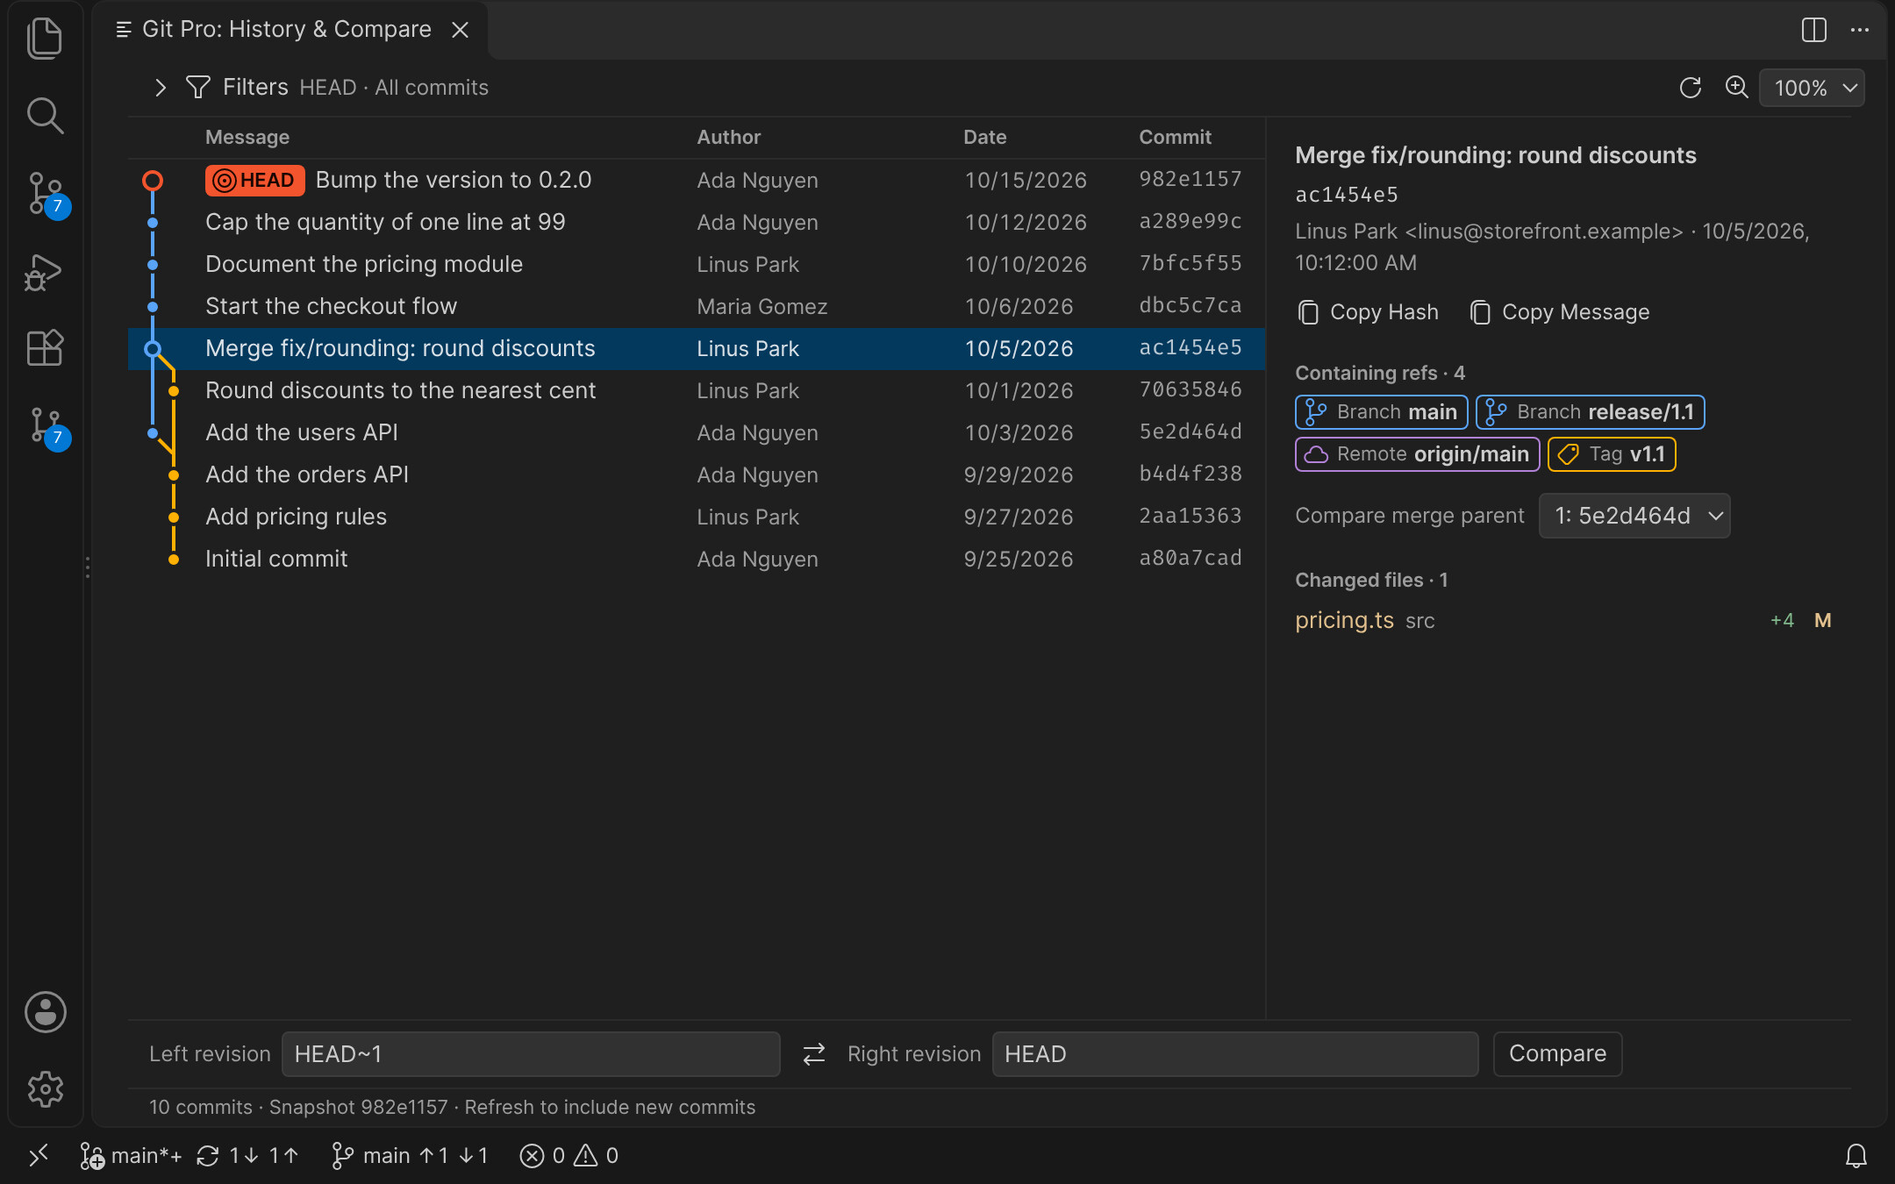
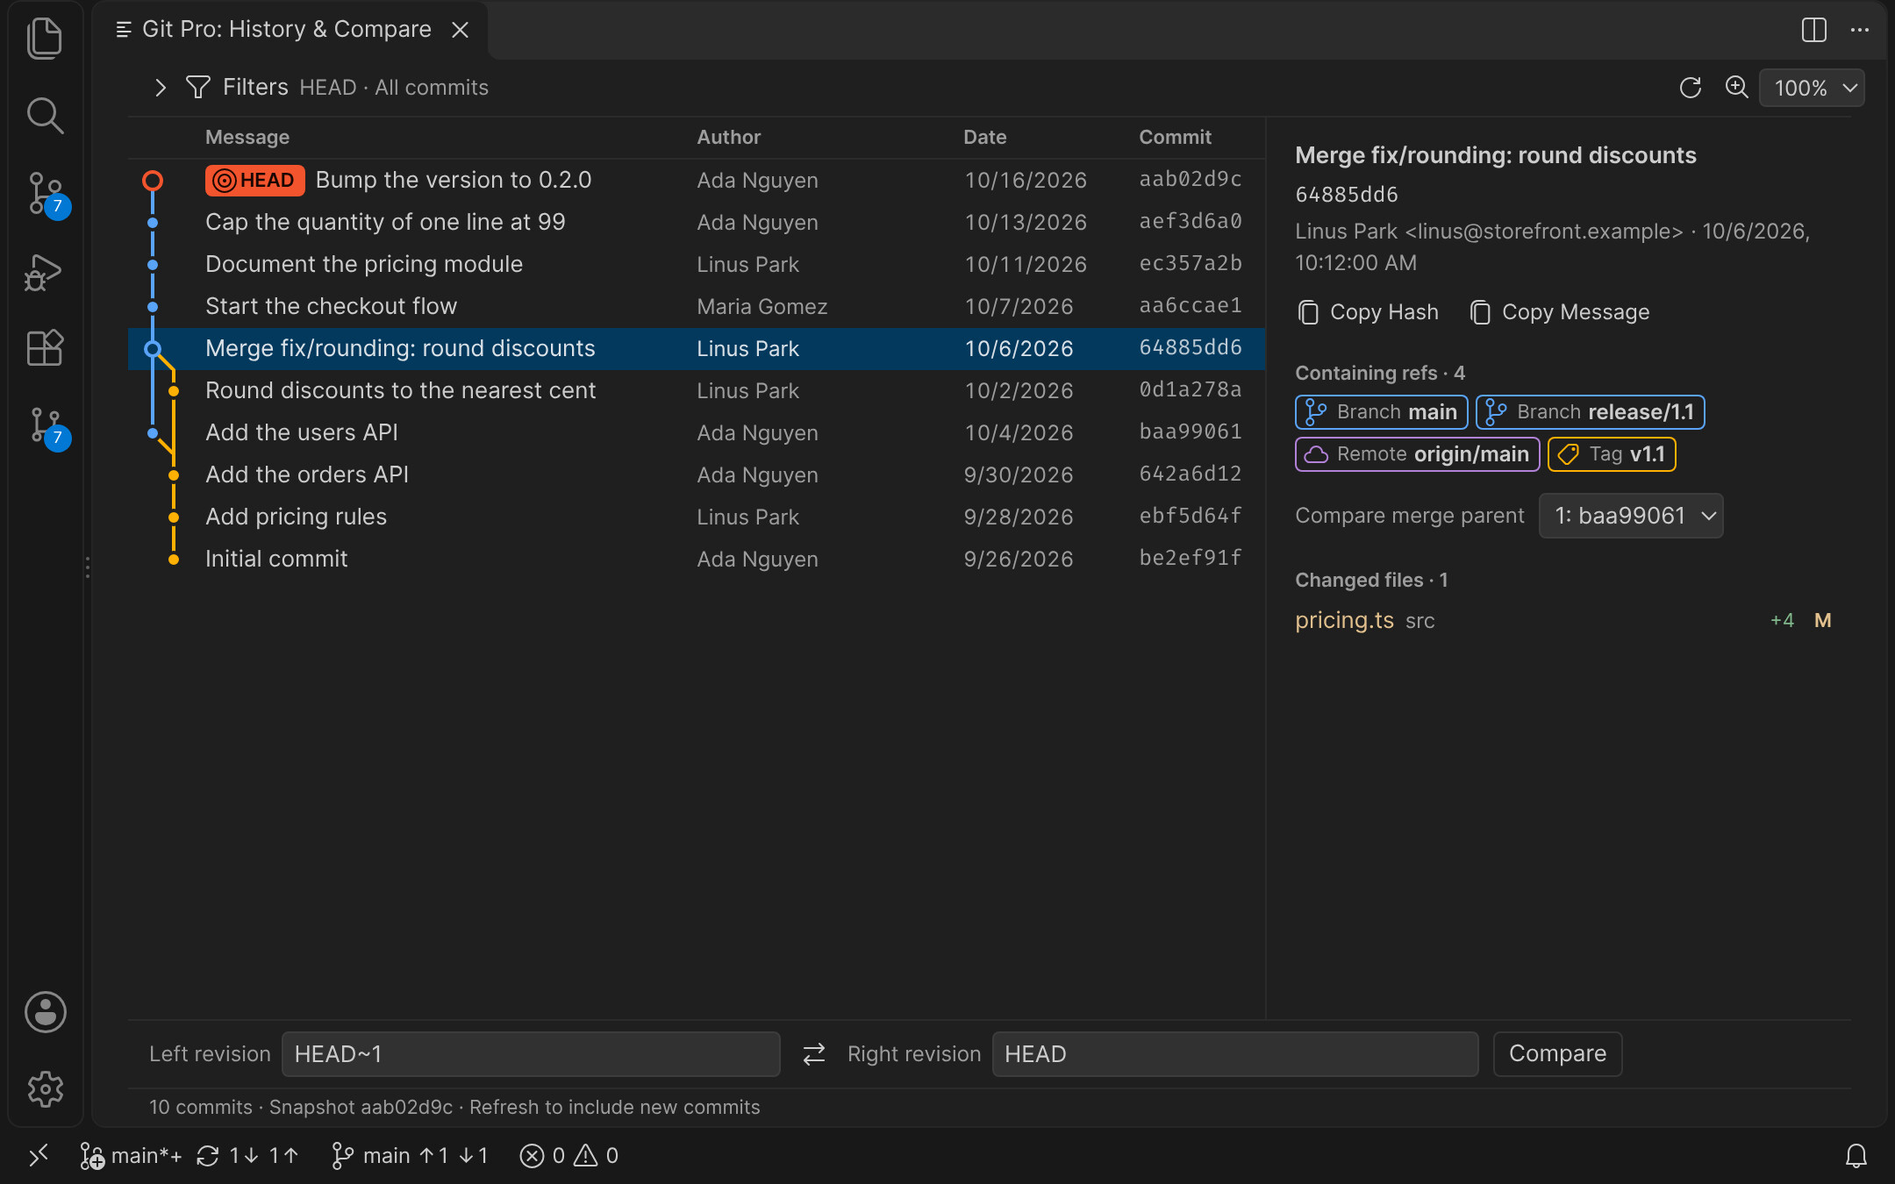
Keep History's rows cheap to scroll and redraw them when the panel is resized
History's commit list is virtual: a few rows are recycled as the list scrolls.
This tightens that, without changing what the list shows.

- The list redraws when the height of its viewport changes (a ResizeObserver),
  not only when the window is resized, so a panel that is made taller or shorter
  no longer keeps the rows of the old size.
- A recycled row's subject and hash update the text node they already have
  instead of replacing it, so a hostile or empty label is still plain text.
- When the window moves almost past the rows it had, the few rows that overlap
  keep their own nodes and are moved, and the rest are rotated: a bounded number
  of structural moves in both directions, and no new elements.
- The author and date columns keep one width (the date is cut with an ellipsis
  rather than pushing the columns), so the rows line up with the header.
- The :has() selectors of the busy bar, the HEAD node and the focus ring are
  narrowed with child combinators, which makes them cheaper to match.

Three unit tests cover the observer, the text nodes and the bounded moves. The
History screenshot, and the sizes of it for the landing page, are taken again.

diff --git a/test/unit/history-script.test.ts b/test/unit/history-script.test.ts
@@ -335,3 +335,40 @@ test('History details render containing refs when they arrive and ignore lookups
   receive({data:{type:'refs',session:'s',oid:commits[0]!.oid,refs:['refs/heads/main']}});assert.match(section().children[1]!.textContent,/unavailable/,'a late lookup for the previous commit does not overwrite');
   receive({data:{type:'details',session:'s',details:{commit:commits[0],message:'Commit 0',files:[],stats:[],refs:['refs/heads/main']},parentIndex:0}});assert.equal(section().children[0]!.textContent,'Containing refs · 1','stored details carry the result');
 });
+
+test('History observes viewport height changes without window resize and preserves current row actions',()=>{
+  const ids=['viewport','rows','spacer','details','status','filters','compare','more','pagination','filter-disclosure','filter-summary','snapshot','zoom','workspace','cancel-read'];
+  const elements=new Map(ids.map(id=>[id,new Element()])),observed:Element[]=[],sent:Record<string,unknown>[]=[];let receive!:(event:{data:unknown})=>void,resize!:()=>void,constructors=0;
+  class Observer { constructor(callback:()=>void){constructors++;resize=callback;}observe(node:Element){observed.push(node);} }
+  runInNewContext(readFileSync('media/history.js','utf8'),{ResizeObserver:Observer,document:{body:{dataset:{session:'s'}},getElementById:(id:string)=>elements.get(id),createElement:()=>new Element(),createElementNS:()=>new Element(),querySelectorAll:()=>[]},window:{addEventListener:(type:string,callback:typeof receive)=>{if(type==='message')receive=callback;}},acquireVsCodeApi:()=>({postMessage:(value:Record<string,unknown>)=>sent.push(value)})});
+  const commits=Array.from({length:100},(_,index)=>({oid:(index+1).toString(16).padStart(40,'0'),parents:index<99?[(index+2).toString(16).padStart(40,'0')]:[],subject:`Commit ${index}`,author:'Fixture',email:'fixture@example.invalid',timestamp:1700000000})),viewport=elements.get('viewport')!,rows=elements.get('rows')!;
+  const page={type:'page',session:'s',commits,rows:layoutGraph(commits).rows,tips:[commits[0]!.oid],refs:[],filters:{},hasMore:false};receive({data:page});assert.equal(constructors,1);assert.equal(observed.length,1);assert.equal(observed[0],viewport);assert.equal(rows.children.length,15);
+  receive({data:{type:'selection',session:'s',oid:commits[5]!.oid}});assert.ok(viewport.getAttribute('aria-activedescendant'));
+  viewport.clientHeight=24;resize();assert.equal(rows.children.length,4);assert.equal(viewport.getAttribute('aria-activedescendant'),undefined);assert.ok(rows.children.every(row=>row.getAttribute('aria-selected')==='false'));
+  viewport.clientHeight=240;resize();assert.equal(rows.children.length,13);const selected=rows.children.find(row=>row.getAttribute('aria-selected')==='true')!;assert.equal(selected.getAttribute('aria-posinset'),'6');assert.equal(viewport.getAttribute('aria-activedescendant'),selected.id);selected.listeners.get('click')!({});assert.equal(sent.at(-1)?.oid,commits[5]!.oid);
+  const unchanged=[...rows.children];resize();assert.ok(rows.children.every((row,index)=>row===unchanged[index]));receive({data:page});assert.equal(constructors,1);assert.equal(observed.length,1);
+});
+
+test('real history row recycling retains plain Text leaves through hostile and empty labels with current selection authority',()=>{
+  const createdTags:string[]=[],plain=(tag='div')=>{
+    const node=new Element();node.tag=tag;let leaf:{nodeType:3;data:string}|undefined;
+    Object.defineProperty(node,'textContent',{configurable:true,get:()=>node.children.length?node.children.map(child=>child.textContent).join(''):leaf?.data??'',set:(value:string)=>{node.children=[];leaf=value?{nodeType:3,data:String(value)}:undefined;}});
+    Object.defineProperty(node,'firstChild',{get:()=>node.children[0]??leaf});Object.defineProperty(node,'childNodes',{get:()=>node.children.length?node.children:leaf?[leaf]:[]});return node;
+  };
+  const elements=new Map(['viewport','rows','spacer','details','status','filters','compare','more','pagination','filter-disclosure','filter-summary','snapshot','zoom','workspace','cancel-read'].map(id=>[id,plain()]));
+  const sent:Record<string,unknown>[]=[],create=(tag:string)=>{createdTags.push(tag);return plain(tag);};let receive:((event:{data:unknown})=>void)|undefined;
+  runInNewContext(readFileSync('media/history.js','utf8'),{document:{body:{dataset:{session:'s'}},getElementById:(id:string)=>elements.get(id),createElement:create,createElementNS:(_ns:string,tag:string)=>create(tag),querySelectorAll:()=>[]},window:{addEventListener:(type:string,callback:typeof receive)=>{if(type==='message')receive=callback;}},acquireVsCodeApi:()=>({postMessage:(value:Record<string,unknown>)=>sent.push(value)})});
+  const commits=Array.from({length:2000},(_,index)=>({oid:(index+1).toString(16).padEnd(40,'0'),parents:index<1999?[(index+2).toString(16).padEnd(40,'0')]:[],subject:`Subject ${index} <img onerror=alert(1)>`,author:'Fixture',email:'fixture@example.invalid',timestamp:1700000000})),graph=layoutGraph(commits);
+  const page=()=>receive!({data:{type:'page',session:'s',commits,rows:graph.rows,tips:[commits[0]!.oid],refs:[],filters:{},hasMore:false}});page();const viewport=elements.get('viewport')!,rows=elements.get('rows')!,row=rows.children[0]!,title=row.children[2]!,hash=title.children[0]!,subject=title.children[1]!,originalHashLeaf=Reflect.get(hash,'firstChild'),originalSubjectLeaf=Reflect.get(subject,'firstChild');
+  viewport.scrollTop=60*ROW;viewport.listeners.get('scroll')!({});assert.equal(rows.children[0],row);assert.equal(subject.textContent,commits[59]!.subject);assert.equal(hash.textContent,commits[59]!.oid.slice(0,8)+'  ');assert.equal(Reflect.get(hash,'firstChild'),originalHashLeaf,'A recycled commit hash must retain its plain Text node');assert.equal(Reflect.get(subject,'firstChild'),originalSubjectLeaf,'A recycled subject must retain its plain Text node');assert.match(row.getAttribute('aria-label')!,/Subject 59 <img/);row.listeners.get('click')!({});assert.equal(sent.at(-1)?.oid,commits[59]!.oid);
+  commits[59]!.subject='';page();assert.equal(subject.textContent,'');assert.equal(Reflect.get(subject,'firstChild'),originalSubjectLeaf,'An empty label retains the same Text leaf');commits[59]!.subject='<script>literal subject</script>';page();assert.equal(subject.textContent,'<script>literal subject</script>');assert.equal(Reflect.get(subject,'firstChild'),originalSubjectLeaf);assert.match(row.getAttribute('aria-label')!,/<script>literal subject<\/script>/);assert.equal(createdTags.includes('img'),false);assert.equal(createdTags.includes('script'),false);row.listeners.get('click')!({});assert.equal(sent.at(-1)?.oid,commits[59]!.oid);
+});
+
+test('History retains current overlap nodes and actions while bounding structural moves for almost-disjoint windows in both directions',()=>{
+  const elements=new Map(['viewport','rows','spacer','details','status','filters','compare','more','pagination','filter-disclosure','filter-summary','snapshot','zoom','workspace','cancel-read'].map(id=>[id,new Element()])),sent:Record<string,unknown>[]=[],created:Element[]=[];let receive:((event:{data:unknown})=>void)|undefined;
+  const create=()=>{const node=new Element();created.push(node);return node;};runInNewContext(readFileSync('media/history.js','utf8'),{document:{body:{dataset:{session:'s'}},getElementById:(id:string)=>elements.get(id),createElement:create,createElementNS:create,querySelectorAll:()=>[]},window:{addEventListener:(type:string,callback:typeof receive)=>{if(type==='message')receive=callback;}},acquireVsCodeApi:()=>({postMessage:(value:Record<string,unknown>)=>sent.push(value)})});
+  const commits=Array.from({length:2000},(_,index)=>({oid:(index+1).toString(16).padEnd(40,'0'),parents:index<1999?[(index+2).toString(16).padEnd(40,'0')]:[],subject:`Subject ${index}`,author:'Fixture',email:'fixture@example.invalid',timestamp:1700000000})),graph=layoutGraph(commits);receive!({data:{type:'page',session:'s',commits,rows:graph.rows,tips:[commits[0]!.oid],refs:[],filters:{},hasMore:false}});
+  const viewport=elements.get('viewport')!,rows=elements.get('rows')!,initial=rows.children.slice(),createdAfterPage=created.length;assert.equal(initial.length,15);let moves=0;const append=rows.append,prepend=rows.prepend;rows.append=function(this:Element,...children:Element[]){moves+=children.length;append.apply(this,children);};rows.prepend=function(this:Element,...children:Element[]){moves+=children.length;prepend.apply(this,children);};
+  viewport.scrollTop=15*ROW;viewport.listeners.get('scroll')!({});assert.equal(rows.children.length,15);assert.equal(rows.children[0],initial[14],'The retained overlapping commit keeps its actual node');assert.equal(rows.children[0]!.getAttribute('aria-posinset'),'15');assert.ok(moves<=2,`Almost-disjoint scroll should move the small retained overlap, observed ${moves} row moves`);rows.children[0]!.listeners.get('click')!({});assert.equal(sent.at(-1)?.oid,commits[14]!.oid);
+  moves=0;viewport.scrollTop=0;viewport.listeners.get('scroll')!({});assert.deepEqual(rows.children,initial);assert.equal(rows.children.at(-1),initial[14]);assert.ok(moves<=2,`Reverse almost-disjoint scroll should preserve overlap with bounded moves, observed ${moves}`);rows.children[0]!.listeners.get('click')!({});assert.equal(sent.at(-1)?.oid,commits[0]!.oid);rows.children.at(-1)!.listeners.get('contextmenu')!({});assert.equal(sent.at(-1)?.oid,commits[14]!.oid);assert.equal(created.length,createdAfterPage,'Row rotations allocate no replacement elements');
+});

diff --git a/media/history.css b/media/history.css
@@ -177,10 +177,10 @@ select{height:26px;padding:0 4px;border:1px solid var(--vscode-dropdown-border,v
 .commit svg{flex:none;overflow:visible}
 .subject{flex:1 1 0;min-width:0;overflow:hidden;text-overflow:ellipsis}
 .commit-hash{position:absolute;top:0;right:8px;width:var(--gp-col-sha);overflow:hidden;font:12px/24px var(--gp-mono);color:var(--gp-muted)}
-.meta{flex:none;display:flex;gap:var(--gp-col-gap);padding-left:var(--gp-col-gap);font-size:12px;color:var(--gp-muted)}
+.meta{flex:none;width:calc(var(--gp-col-author) + var(--gp-col-date) + 2 * var(--gp-col-gap));min-width:0;display:flex;gap:var(--gp-col-gap);padding-left:var(--gp-col-gap);font-size:12px;color:var(--gp-muted)}
 .meta>span:nth-child(2){display:none}
 .commit-author{flex:0 0 var(--gp-col-author);overflow:hidden;text-overflow:ellipsis}
-.commit-date{flex:0 0 var(--gp-col-date);font-variant-numeric:tabular-nums}
+.commit-date{flex:0 0 var(--gp-col-date);overflow:hidden;text-overflow:ellipsis;font-variant-numeric:tabular-nums}
 .commit[data-merge="true"] .subject{color:var(--gp-muted)}
 
 /* Graph: theme lane colours, 2px lines, r4 nodes with a row-coloured halo; merges hollow; HEAD an accent ring */
@@ -190,7 +190,7 @@ select{height:26px;padding:0 4px;border:1px solid var(--vscode-dropdown-border,v
 .commit[data-lane="0"]{--gp-node-color:var(--gp-lane-0)}.commit[data-lane="1"]{--gp-node-color:var(--gp-lane-1)}.commit[data-lane="2"]{--gp-node-color:var(--gp-lane-2)}.commit[data-lane="3"]{--gp-node-color:var(--gp-lane-3)}.commit[data-lane="4"]{--gp-node-color:var(--gp-lane-4)}.commit[data-lane="5"]{--gp-node-color:var(--gp-lane-5)}
 .commit[data-incoming="true"] svg{background:linear-gradient(var(--gp-node-color),var(--gp-node-color)) calc(var(--gp-node-x,0px) - 1px) 0/2px 12px no-repeat}
 .commit[data-merge="true"] svg circle{fill:var(--gp-row-bg);stroke:currentColor}
-.commit:has(.refs[data-head="true"]:not([hidden])) svg circle{r:5px;fill:var(--gp-row-bg);stroke:var(--gp-accent)}
+.commit:has(>.refs[data-head="true"]:not([hidden])) svg circle{r:5px;fill:var(--gp-row-bg);stroke:var(--gp-accent)}
 
 /* Ref pill: ring in the ref colour; HEAD filled with the accent */
 .refs{position:relative;flex:0 1 auto;max-width:min(40%,200px);height:18px;margin-right:6px;padding:0 6px 0 20px;border-radius:var(--gp-radius-sm);box-shadow:inset 0 0 0 1px var(--gp-ref);background:transparent;color:var(--gp-fg);font-size:11px;font-weight:600;line-height:18px;overflow:hidden;text-overflow:ellipsis;white-space:nowrap}
@@ -210,7 +210,7 @@ body.vscode-high-contrast .commit[aria-selected=true],body.vscode-high-contrast-
 body.vscode-high-contrast .refs,body.vscode-high-contrast-light .refs{box-shadow:inset 0 0 0 1px var(--vscode-contrastBorder)}
 /* Native list parity: the active row of a keyboard-focused list carries a 1px focus marker inside the listbox ring. */
 #viewport:focus-visible .commit[aria-selected=true]{outline:1px solid var(--vscode-list-focusOutline,var(--vscode-focusBorder));outline-offset:-1px}
-@media (max-width:700px){.commit-author,.col-author{display:none}}
+@media (max-width:700px){.commit-author,.col-author{display:none}.meta{width:calc(var(--gp-col-date) + var(--gp-col-gap))}}
 @media (max-width:479px){.commit-hash,.col-sha{display:none}.commit{padding-right:8px}.columns{padding-right:8px}#viewport{--history-row-reserve:200px}.refs{max-width:96px}}
 
 /* Details side panel */
@@ -316,12 +316,12 @@ body.vscode-high-contrast :is(.icon-button,.file-working,.details-actions button
 body.vscode-high-contrast #details li:hover,body.vscode-high-contrast-light #details li:hover{outline:1px dashed var(--vscode-contrastActiveBorder);outline-offset:-1px}
 
 /* Busy */
-body:has(#viewport[aria-busy="true"])::before{content:"";position:fixed;top:0;left:0;z-index:20;width:25%;height:2px;background:var(--gp-progress);animation:gp-progress 1.2s linear infinite;pointer-events:none}
-@media (prefers-reduced-motion:reduce){body:has(#viewport[aria-busy="true"])::before{width:100%;opacity:.6}}
+body:has(>#workspace>section:first-child>#viewport[aria-busy="true"])::before{content:"";position:fixed;top:0;left:0;z-index:20;width:25%;height:2px;background:var(--gp-progress);animation:gp-progress 1.2s linear infinite;pointer-events:none}
+@media (prefers-reduced-motion:reduce){body:has(>#workspace>section:first-child>#viewport[aria-busy="true"])::before{width:100%;opacity:.6}}
 
 /* Keyboard focus of the commit listbox: declared last so it wins over the high-contrast row outlines */
 body #viewport:focus-visible,body.vscode-high-contrast #viewport:focus-visible,body.vscode-high-contrast-light #viewport:focus-visible{outline:2px solid var(--vscode-list-focusOutline,var(--vscode-focusBorder));outline-offset:-2px}
 /* The sticky column header paints above the list's own outline, so the same ring is repeated on an overlay in the list's grid cell. */
-#workspace>section:first-child:has(#viewport:focus-visible)::after{content:"";grid-row:1;grid-column:1/-1;position:relative;z-index:3;outline:2px solid var(--vscode-list-focusOutline,var(--vscode-focusBorder));outline-offset:-2px;pointer-events:none}
+#workspace>section:first-child:has(>#viewport:focus-visible)::after{content:"";grid-row:1;grid-column:1/-1;position:relative;z-index:3;outline:2px solid var(--vscode-list-focusOutline,var(--vscode-focusBorder));outline-offset:-2px;pointer-events:none}
 
 @media (forced-colors:active){.commit[aria-selected=true]{outline:1px solid Highlight}.refs,.ref-chip{box-shadow:none;border:1px solid CanvasText;line-height:16px}.refs[data-head="true"]{background:Highlight;color:HighlightText}}

diff --git a/media/history.js b/media/history.js
@@ -107,7 +107,7 @@
     };
     const page = (control, fallback, nextOffset) => { const ownedFocus = document.activeElement === control; offset = nextOffset; render(); if (!ownedFocus || !control.disabled || fallback.disabled || (typeof document.hasFocus === 'function' && !document.hasFocus())) return; const active = document.activeElement; if (active && active !== control && active !== document.body && active.tagName !== 'HTML' && active.isConnected && !active.disabled) return; fallback.focus(); }; previous.addEventListener('click', () => { if (!busy && offset > 0) page(previous, next, offset - 200); }); next.addEventListener('click', () => { if (!busy && offset + 200 < files.length) page(next, previous, offset + 200); }); details.append(navigation, list); render();
   };
-  const updateRowText = (node, value) => { if (node.textContent !== value) node.textContent = value; };
+  const updateRowText = (node, value) => { if (node.textContent !== value) { if (node.firstChild?.nodeType === 3 && node.childNodes?.length === 1) node.firstChild.data = value; else node.textContent = value; } };
   const updateRowTitle = (node, value) => { if (node.title !== value) node.title = value; };
   const updateGraphAttribute = (node, name, value) => { if (node.getAttribute(name) !== value) node.setAttribute(name, value); };
   const createVisibleRow = slot => {
@@ -132,8 +132,8 @@
     const count = Math.max(0, end - start);
     if (visibleRows.length !== count) { rows.replaceChildren(); visibleRows = Array.from({ length: count }, (_, slot) => createVisibleRow(slot)); rows.append(...visibleRows.map(view => view.row)); } else if (renderedWindow) {
       const delta = start - renderedWindow.start;
-      if (delta > 0 && delta < count) { const moved = visibleRows.splice(0, delta); visibleRows.push(...moved); rows.append(...moved.map(view => view.row)); }
-      else if (delta < 0 && -delta < count) { const moved = visibleRows.splice(count + delta); visibleRows.unshift(...moved); rows.prepend(...moved.map(view => view.row)); }
+      if (delta > 0 && delta < count) { const moved = visibleRows.splice(0, delta); visibleRows.push(...moved); if (delta <= count - delta) rows.append(...moved.map(view => view.row)); else rows.prepend(...visibleRows.slice(0, count - delta).map(view => view.row)); }
+      else if (delta < 0 && -delta < count) { const moved = visibleRows.splice(count + delta); visibleRows.unshift(...moved); if (-delta <= count + delta) rows.prepend(...moved.map(view => view.row)); else rows.append(...visibleRows.slice(-delta).map(view => view.row)); }
     }
     let formattedDay;
     const displayDate = timestamp => {
@@ -181,6 +181,8 @@
   document.getElementById('zoom').addEventListener('change', event => { laneWidth = [9,12,18].includes(Number(event.target.value)) ? Number(event.target.value) : 12; remember(); draw(); }); viewport.addEventListener('scroll', () => { remember();draw(); });
   viewport.addEventListener('keydown', event => { if (['ArrowDown', 'ArrowUp', 'Home', 'End'].includes(event.key)) { event.preventDefault(); const index = event.key === 'Home' ? 0 : event.key === 'End' ? commits.length - 1 : Math.max(0, Math.min(commits.length - 1, selected + (event.key === 'ArrowDown' ? 1 : -1))); if (busy) return; viewport.scrollTop = Math.max(0, index * ROW - viewport.clientHeight / 2); select(index); } });
   window.addEventListener('resize', draw);
+  const viewportObserver = typeof ResizeObserver === 'function' ? new ResizeObserver(draw) : undefined;
+  viewportObserver?.observe(viewport);
   document.getElementById('filters').addEventListener('submit', event => { event.preventDefault(); if (!busy) send({ type: 'query', ...Object.fromEntries(new FormData(event.currentTarget)) }); });
   document.getElementById('compare').addEventListener('submit', event => { event.preventDefault(); if (!busy) send({ type: 'compare', ...Object.fromEntries(new FormData(event.currentTarget)) }); });
   document.getElementById('compare-swap')?.addEventListener('click', () => { const form = document.getElementById('compare'), from = form?.querySelector?.('[name=from]'), to = form?.querySelector?.('[name=to]'); if (!busy && from && to) [from.value, to.value] = [to.value, from.value]; });
